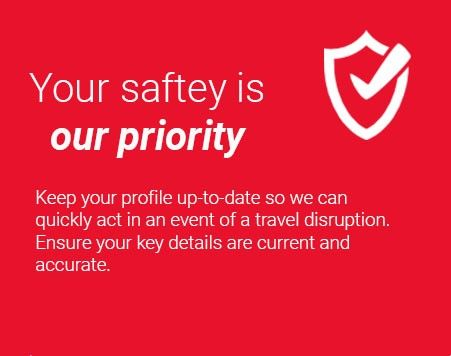
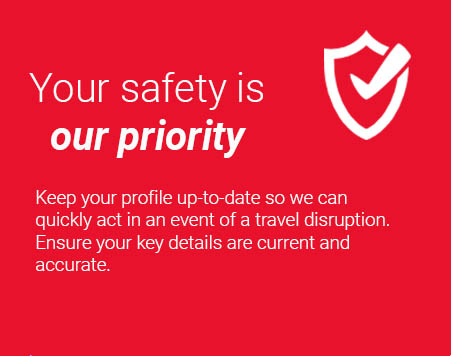
updated phone number and email in nav & footer. replaced alert image

diff --git a/src/components/Navbars/ScrollTransparentNavbar.js b/src/components/Navbars/ScrollTransparentNavbar.js
@@ -154,17 +154,17 @@ function ScrollTransparentNavbar() {
                     <i className="fa fa-sms"></i>
                     Text - 858-240-1171
                   </DropdownItem>
-                  <DropdownItem href="tel:858-678-3300" target="_blank">
+                  <DropdownItem href="tel:858-678-3782" target="_blank">
                       <i className="fa fa-phone"></i>
-                      858-678-3300 M-F 6a - 6p
+                      858-678-3782 M-F 6a - 6p
                     </DropdownItem>
                     <DropdownItem href="tel:800-359-8773" target="_blank">
                       <i className="fa fa-phone"></i>
                       800-359-8773 Afterhours
                     </DropdownItem>
-                    <DropdownItem href="mailto:travel@balboa.com" target="_blank">
+                    <DropdownItem href="mailto:corporateaccounts@balboa.com" target="_blank">
                       <i className="fa fa-envelope"></i>
-                      travel@balboa.com
+                       corporateaccounts@balboa.com
                     </DropdownItem>
                 </DropdownMenu>
               </UncontrolledDropdown>

diff --git a/src/components/Navbars/QualcommTransparentNavbar.js b/src/components/Navbars/QualcommTransparentNavbar.js
@@ -154,17 +154,17 @@ function QualcommTransparentNavbar() {
                     <i className="fa fa-sms"></i>
                     Text - 858-240-1171
                   </DropdownItem>
-                  <DropdownItem href="tel:858-678-3300" target="_blank">
+                  <DropdownItem href="tel:858-678-3782">
                       <i className="fa fa-phone"></i>
-                      858-678-3300 M-F 6a - 6p
+                      858-678-3782 M-F 6a - 6p
                     </DropdownItem>
                     <DropdownItem href="tel:800-359-8773" target="_blank">
                       <i className="fa fa-phone"></i>
                       800-359-8773 Afterhours
                     </DropdownItem>
-                    <DropdownItem href="mailto:travel@balboa.com" target="_blank">
+                    <DropdownItem href="mailto:corporateaccounts@balboa.com" target="_blank">
                       <i className="fa fa-envelope"></i>
-                      travel@balboa.com
+                       corporateaccounts@balboa.com
                     </DropdownItem>
                 </DropdownMenu>
               </UncontrolledDropdown>

diff --git a/src/components/Footers/FooterBlack.js b/src/components/Footers/FooterBlack.js
@@ -106,13 +106,13 @@ function FooterBlack() {
                 <i className="fa fa-home mr-3" /> California Sellers License Number: CST#2013711
             </p>
               <p>
-                <a href="mailto:res54141@balboa.com">
-                  <i className="fa fa-envelope mr-3" /> res54141@balboa.com
+                <a href="mailto:corporateaccounts@balboa.com">
+                  <i className="fa fa-envelope mr-3" /> corporateaccounts@balboa.com
                 </a>
             </p>
               <p>
-                <a href="tel:858-678-3779">
-                  <i className="fa fa-phone mr-3" /> 858-678-3779
+                <a href="tel:858-678-3782">
+                  <i className="fa fa-phone mr-3" /> 858-678-3782
                 </a>
             </p>
               {/* <p>
